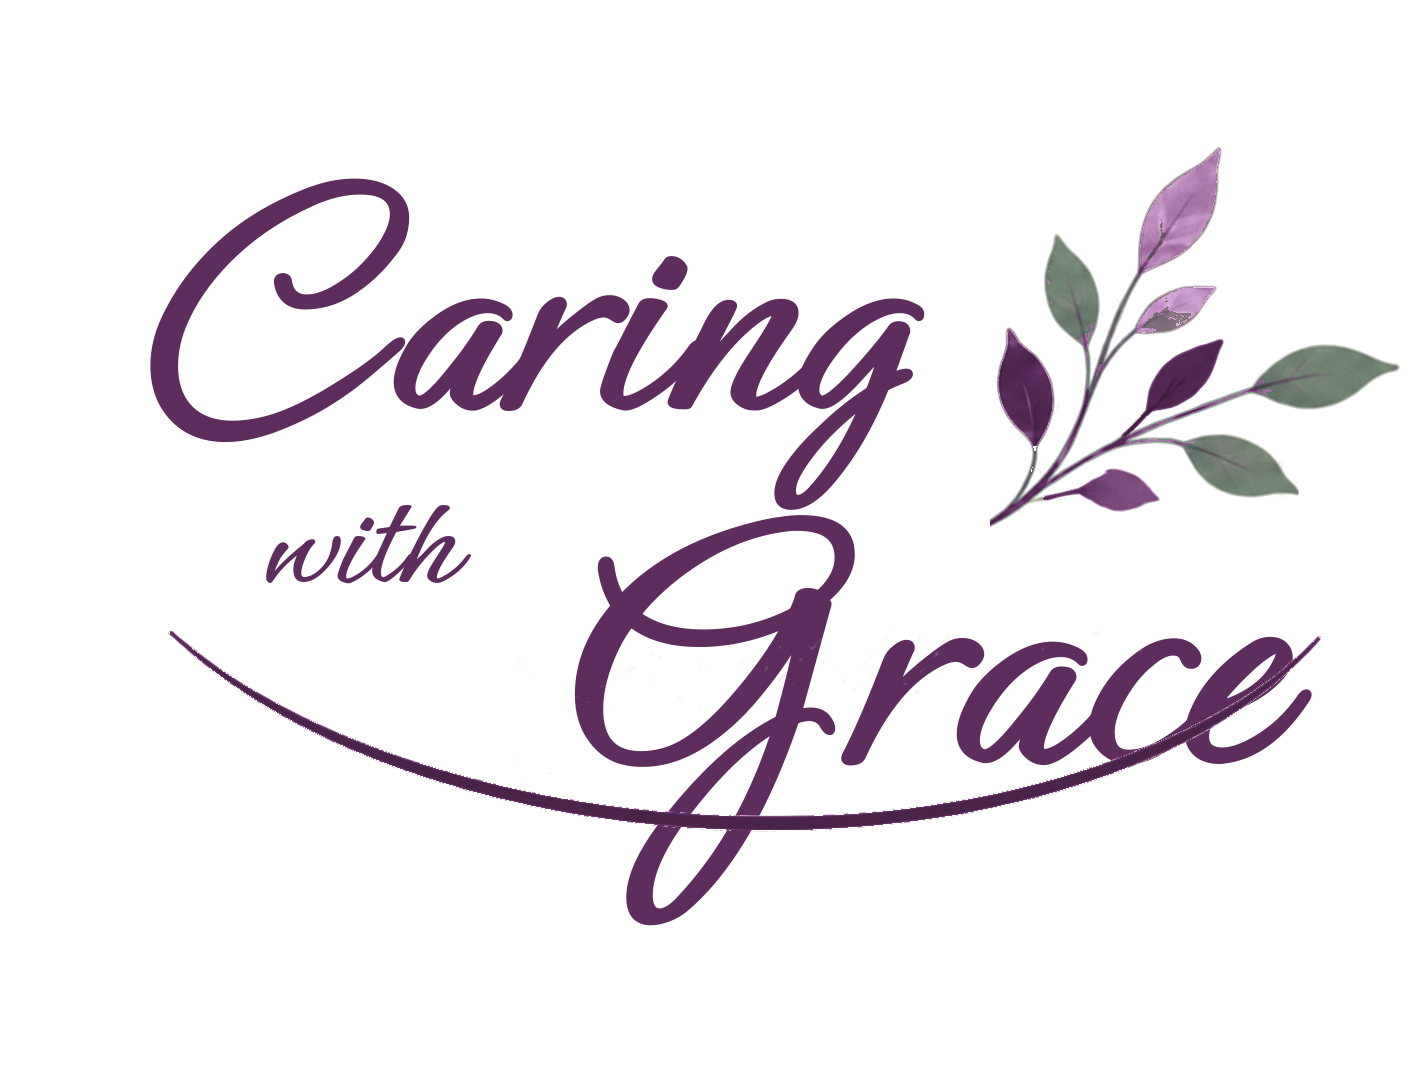
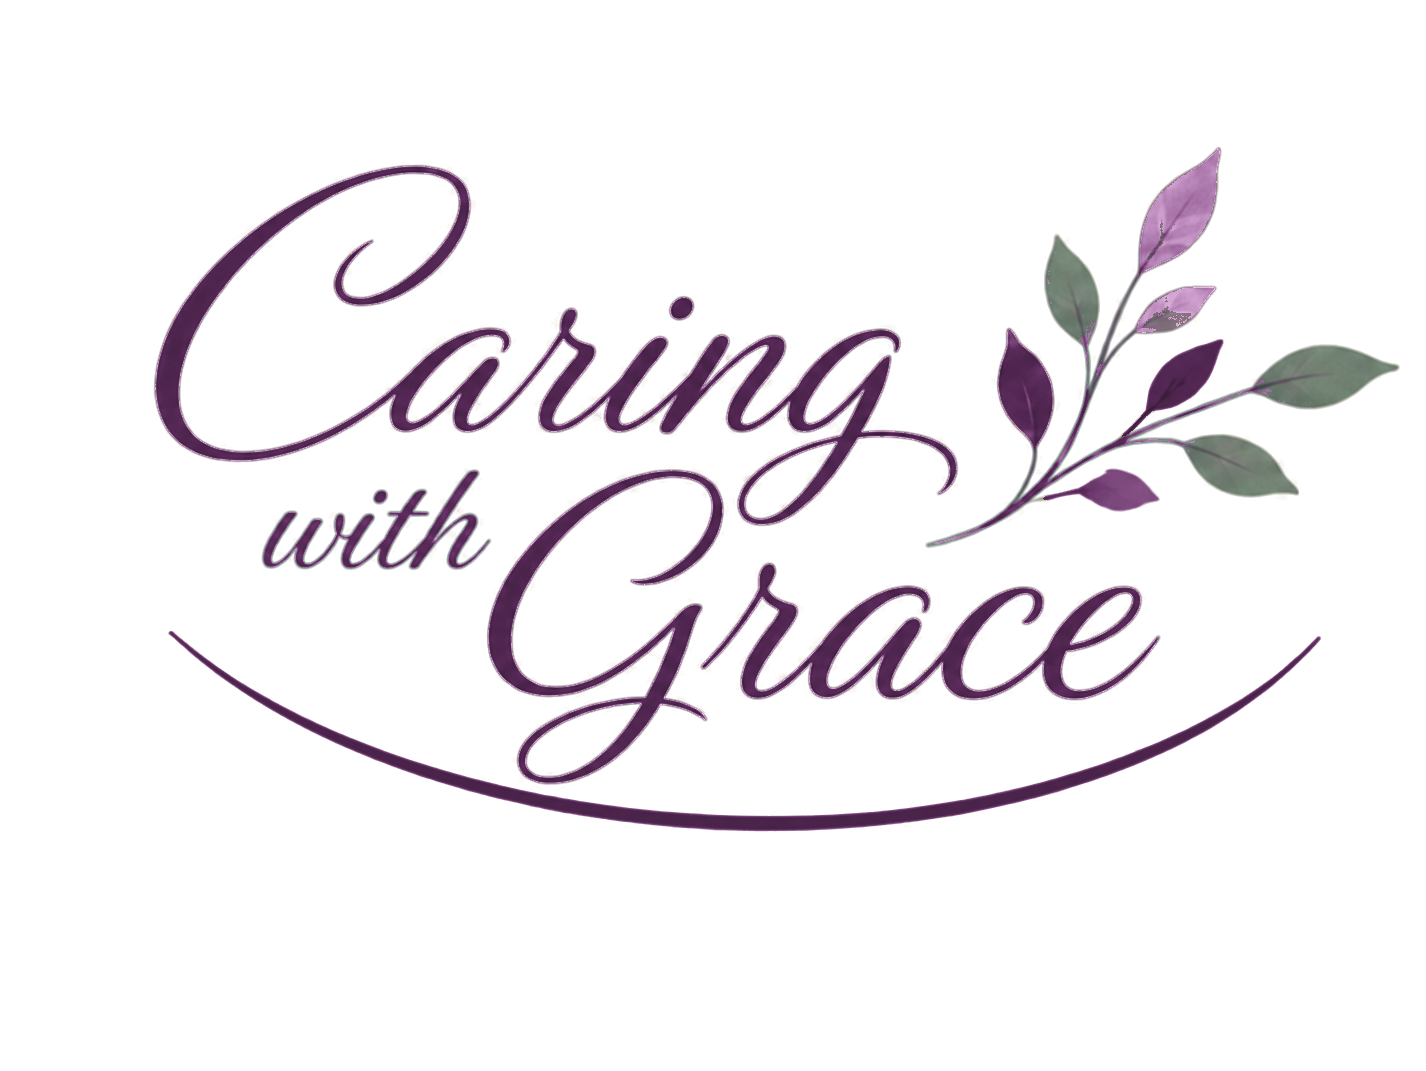
Revert the font unification: original lockup art and Great Vibes header restored (badge font to be confirmed by the team); keeps the A-F palettes, round-mark badges, and the home page try-on
Claude-Session: https://claude.ai/code/session_016j5r3FfxgFNpWKhT459GkM

Changed region(s): [[0.0926, 0.1541, 0.9257, 0.8627], [0.648, 0.493, 0.6788, 0.5238]]

diff --git a/brand-review.html b/brand-review.html
@@ -7,7 +7,7 @@
   <meta name="robots" content="noindex">
   <link rel="preconnect" href="https://fonts.googleapis.com">
   <link rel="preconnect" href="https://fonts.gstatic.com" crossorigin>
-  <link href="https://fonts.googleapis.com/css2?family=DM+Serif+Display:ital@0;1&family=Ephesis&family=DM+Sans:ital,wght@0,400;0,500;0,600;0,700;1,400&display=swap" rel="stylesheet">
+  <link href="https://fonts.googleapis.com/css2?family=DM+Serif+Display:ital@0;1&family=Great+Vibes&family=DM+Sans:ital,wght@0,400;0,500;0,600;0,700;1,400&display=swap" rel="stylesheet">
   <link rel="icon" type="image/png" href="assets/img/brand-v6/badge-karen-64.png">
   <style>
     *, *::before, *::after { box-sizing: border-box; margin: 0; padding: 0; }
@@ -55,7 +55,7 @@
           box-shadow:0 14px 30px rgba(30,42,68,.16), 0 2px 4px rgba(30,42,68,.10); display:flex; align-items:center; gap:14px; padding:18px 20px 22px 18px; overflow:hidden; }
     .nb-mark { width:26%; height:auto; flex-shrink:0; }
     .nb-text { display:flex; flex-direction:column; line-height:1.2; min-width:0; }
-    .nb-script { font-family:'Ephesis',cursive; -webkit-text-stroke:.5px currentColor; font-size:1.42rem; -webkit-text-stroke:.3px currentColor; margin-bottom:6px; white-space:nowrap; }
+    .nb-script { font-family:'Great Vibes',cursive; font-size:1.42rem; -webkit-text-stroke:.3px currentColor; margin-bottom:6px; white-space:nowrap; }
     .nb-script em { font-style:normal; font-size:.78em; margin:0 .2em; }
     .nb-text strong { font-size:.98rem; white-space:nowrap; color:var(--navy); font-weight:700; letter-spacing:.01em; }
     .nb-text span:last-child { font-size:.72rem; color:var(--muted); margin-top:3px; }
@@ -86,7 +86,6 @@
     <div class="kicker">For review &middot; Logo &amp; colors &middot; September 2026</div>
     <h1>The logo, its colors, and a name badge</h1>
     <p>The design is settled, so this page is about color. Section one shows the logo as it now appears on the draft site. Section two shows the same artwork in six color combinations, lettered A to F. Section three puts each one on a name badge so you can judge it at real-world size. Nothing here is final until you say so.</p>
-    <p>One change since the last round: the lettering in the full logo, the round badge, and the website header now all use the same script, the one from the round badge (the C with the small inner curl and the open G). <a href="brand-home.html">See any palette on the draft home page &rarr;</a></p>
   </div>
 </div>
 

diff --git a/for-professionals.html b/for-professionals.html
@@ -7,7 +7,7 @@
   <meta name="description" content="Caring with Grace partners with financial advisors, trust officers, attorneys, physicians, home care agencies, and senior living communities to support shared clients with professional care management.">
   <link rel="preconnect" href="https://fonts.googleapis.com">
   <link rel="preconnect" href="https://fonts.gstatic.com" crossorigin>
-  <link href="https://fonts.googleapis.com/css2?family=DM+Serif+Display:ital@0;1&family=Alex+Brush&family=Ephesis&family=DM+Sans:ital,wght@0,400;0,500;0,600;0,700;1,400&display=swap" rel="stylesheet">
+  <link href="https://fonts.googleapis.com/css2?family=DM+Serif+Display:ital@0;1&family=Alex+Brush&family=Great+Vibes&family=DM+Sans:ital,wght@0,400;0,500;0,600;0,700;1,400&display=swap" rel="stylesheet">
   <link rel="canonical" href="https://clayborneo.github.io/cwg-site-draft-v2/for-professionals.html">
   <meta name="robots" content="noindex">  <!-- draft only: remove at launch -->
   <meta property="og:type" content="website">
@@ -18,7 +18,7 @@
   <meta property="og:image" content="https://clayborneo.github.io/cwg-site-draft-v2/assets/img/hero/slide4c.jpg">
   <meta name="twitter:card" content="summary_large_image">
   <link rel="icon" type="image/png" href="assets/img/brand-v6/badge-karen-64.png">
-  <link rel="stylesheet" href="assets/css/style.css?v=10">
+  <link rel="stylesheet" href="assets/css/style.css?v=11">
 </head>
 <body>
 

diff --git a/caring-on-call.html b/caring-on-call.html
@@ -7,7 +7,7 @@
   <meta name="description" content="Caring on Call from Caring with Grace: plan for your own aging proactively, not in crisis. Your own care manager, one planned visit a year, and a direct line whenever you need it.">
   <link rel="preconnect" href="https://fonts.googleapis.com">
   <link rel="preconnect" href="https://fonts.gstatic.com" crossorigin>
-  <link href="https://fonts.googleapis.com/css2?family=DM+Serif+Display:ital@0;1&family=Alex+Brush&family=Ephesis&family=DM+Sans:ital,wght@0,400;0,500;0,600;0,700;1,400&display=swap" rel="stylesheet">
+  <link href="https://fonts.googleapis.com/css2?family=DM+Serif+Display:ital@0;1&family=Alex+Brush&family=Great+Vibes&family=DM+Sans:ital,wght@0,400;0,500;0,600;0,700;1,400&display=swap" rel="stylesheet">
   <link rel="canonical" href="https://clayborneo.github.io/cwg-site-draft-v2/caring-on-call.html">
   <meta name="robots" content="noindex">  <!-- draft only: remove at launch -->
   <meta property="og:type" content="website">
@@ -18,7 +18,7 @@
   <meta property="og:image" content="https://clayborneo.github.io/cwg-site-draft-v2/assets/img/hero/slide4c.jpg">
   <meta name="twitter:card" content="summary_large_image">
   <link rel="icon" type="image/png" href="assets/img/brand-v6/badge-karen-64.png">
-  <link rel="stylesheet" href="assets/css/style.css?v=10">
+  <link rel="stylesheet" href="assets/css/style.css?v=11">
 </head>
 <body>
 

diff --git a/aging-life-care.html b/aging-life-care.html
@@ -7,7 +7,7 @@
   <meta name="description" content="Aging Life Care™, also known as geriatric care management, is a holistic, client-centered approach to caring for older adults or others facing ongoing health challenges.">
   <link rel="preconnect" href="https://fonts.googleapis.com">
   <link rel="preconnect" href="https://fonts.gstatic.com" crossorigin>
-  <link href="https://fonts.googleapis.com/css2?family=DM+Serif+Display:ital@0;1&family=Alex+Brush&family=Ephesis&family=DM+Sans:ital,wght@0,400;0,500;0,600;0,700;1,400&display=swap" rel="stylesheet">
+  <link href="https://fonts.googleapis.com/css2?family=DM+Serif+Display:ital@0;1&family=Alex+Brush&family=Great+Vibes&family=DM+Sans:ital,wght@0,400;0,500;0,600;0,700;1,400&display=swap" rel="stylesheet">
   <link rel="canonical" href="https://clayborneo.github.io/cwg-site-draft-v2/aging-life-care.html">
   <meta name="robots" content="noindex">  <!-- draft only: remove at launch -->
   <meta property="og:type" content="website">
@@ -18,7 +18,7 @@
   <meta property="og:image" content="https://clayborneo.github.io/cwg-site-draft-v2/assets/img/hero/slide3d.jpg">
   <meta name="twitter:card" content="summary_large_image">
   <link rel="icon" type="image/png" href="assets/img/brand-v6/badge-karen-64.png">
-  <link rel="stylesheet" href="assets/css/style.css?v=10">
+  <link rel="stylesheet" href="assets/css/style.css?v=11">
 </head>
 <body>
 

diff --git a/thoughtful-engagement.html b/thoughtful-engagement.html
@@ -7,7 +7,7 @@
   <meta name="description" content="Thoughtful Engagement® from Caring with Grace: a personalized, one-on-one program that reconnects participants with the activities and people that bring them joy.">
   <link rel="preconnect" href="https://fonts.googleapis.com">
   <link rel="preconnect" href="https://fonts.gstatic.com" crossorigin>
-  <link href="https://fonts.googleapis.com/css2?family=DM+Serif+Display:ital@0;1&family=Alex+Brush&family=Ephesis&family=DM+Sans:ital,wght@0,400;0,500;0,600;0,700;1,400&display=swap" rel="stylesheet">
+  <link href="https://fonts.googleapis.com/css2?family=DM+Serif+Display:ital@0;1&family=Alex+Brush&family=Great+Vibes&family=DM+Sans:ital,wght@0,400;0,500;0,600;0,700;1,400&display=swap" rel="stylesheet">
   <link rel="canonical" href="https://clayborneo.github.io/cwg-site-draft-v2/thoughtful-engagement.html">
   <meta name="robots" content="noindex">  <!-- draft only: remove at launch -->
   <meta property="og:type" content="website">
@@ -18,7 +18,7 @@
   <meta property="og:image" content="https://clayborneo.github.io/cwg-site-draft-v2/assets/img/hero/slide4d.jpg">
   <meta name="twitter:card" content="summary_large_image">
   <link rel="icon" type="image/png" href="assets/img/brand-v6/badge-karen-64.png">
-  <link rel="stylesheet" href="assets/css/style.css?v=10">
+  <link rel="stylesheet" href="assets/css/style.css?v=11">
 </head>
 <body>
 

diff --git a/care-management-families.html b/care-management-families.html
@@ -7,7 +7,7 @@
   <meta name="description" content="Experienced, professional guidance for older adults and families facing changing health, complex care decisions, dementia, or the challenges of aging at home.">
   <link rel="preconnect" href="https://fonts.googleapis.com">
   <link rel="preconnect" href="https://fonts.gstatic.com" crossorigin>
-  <link href="https://fonts.googleapis.com/css2?family=DM+Serif+Display:ital@0;1&family=Alex+Brush&family=Ephesis&family=DM+Sans:ital,wght@0,400;0,500;0,600;0,700;1,400&display=swap" rel="stylesheet">
+  <link href="https://fonts.googleapis.com/css2?family=DM+Serif+Display:ital@0;1&family=Alex+Brush&family=Great+Vibes&family=DM+Sans:ital,wght@0,400;0,500;0,600;0,700;1,400&display=swap" rel="stylesheet">
   <link rel="canonical" href="https://clayborneo.github.io/cwg-site-draft-v2/care-management-families.html">
   <meta name="robots" content="noindex">  <!-- draft only: remove at launch -->
   <meta property="og:type" content="website">
@@ -18,7 +18,7 @@
   <meta property="og:image" content="https://clayborneo.github.io/cwg-site-draft-v2/assets/img/hero/slide3d.jpg">
   <meta name="twitter:card" content="summary_large_image">
   <link rel="icon" type="image/png" href="assets/img/brand-v6/badge-karen-64.png">
-  <link rel="stylesheet" href="assets/css/style.css?v=10">
+  <link rel="stylesheet" href="assets/css/style.css?v=11">
 </head>
 <body>
 

diff --git a/team.html b/team.html
@@ -7,7 +7,7 @@
   <meta name="description" content="Meet the certified Aging Life Care Professionals at Caring with Grace: nurses, social workers, and dementia practitioners serving Dallas-Fort Worth families.">
   <link rel="preconnect" href="https://fonts.googleapis.com">
   <link rel="preconnect" href="https://fonts.gstatic.com" crossorigin>
-  <link href="https://fonts.googleapis.com/css2?family=DM+Serif+Display:ital@0;1&family=Alex+Brush&family=Ephesis&family=DM+Sans:ital,wght@0,400;0,500;0,600;0,700;1,400&display=swap" rel="stylesheet">
+  <link href="https://fonts.googleapis.com/css2?family=DM+Serif+Display:ital@0;1&family=Alex+Brush&family=Great+Vibes&family=DM+Sans:ital,wght@0,400;0,500;0,600;0,700;1,400&display=swap" rel="stylesheet">
   <link rel="canonical" href="https://clayborneo.github.io/cwg-site-draft-v2/team.html">
   <meta name="robots" content="noindex">  <!-- draft only: remove at launch -->
   <meta property="og:type" content="website">
@@ -18,7 +18,7 @@
   <meta property="og:image" content="https://clayborneo.github.io/cwg-site-draft-v2/assets/img/hero/slide3d.jpg">
   <meta name="twitter:card" content="summary_large_image">
   <link rel="icon" type="image/png" href="assets/img/brand-v6/badge-karen-64.png">
-  <link rel="stylesheet" href="assets/css/style.css?v=10">
+  <link rel="stylesheet" href="assets/css/style.css?v=11">
 </head>
 <body>
 

diff --git a/newsletter.html b/newsletter.html
@@ -7,7 +7,7 @@
   <meta name="description" content="Caring Connection News is the Caring with Grace newsletter: practical guidance on aging, caregiving, and living well, delivered to families across North Texas.">
   <link rel="preconnect" href="https://fonts.googleapis.com">
   <link rel="preconnect" href="https://fonts.gstatic.com" crossorigin>
-  <link href="https://fonts.googleapis.com/css2?family=DM+Serif+Display:ital@0;1&family=Alex+Brush&family=Ephesis&family=DM+Sans:ital,wght@0,400;0,500;0,600;0,700;1,400&display=swap" rel="stylesheet">
+  <link href="https://fonts.googleapis.com/css2?family=DM+Serif+Display:ital@0;1&family=Alex+Brush&family=Great+Vibes&family=DM+Sans:ital,wght@0,400;0,500;0,600;0,700;1,400&display=swap" rel="stylesheet">
   <link rel="canonical" href="https://clayborneo.github.io/cwg-site-draft-v2/newsletter.html">
   <meta name="robots" content="noindex">  <!-- draft only: remove at launch -->
   <meta property="og:type" content="website">
@@ -17,7 +17,7 @@
   <meta property="og:url" content="https://clayborneo.github.io/cwg-site-draft-v2/newsletter.html">
   <meta name="twitter:card" content="summary">
   <link rel="icon" type="image/png" href="assets/img/brand-v6/badge-karen-64.png">
-  <link rel="stylesheet" href="assets/css/style.css?v=10">
+  <link rel="stylesheet" href="assets/css/style.css?v=11">
 </head>
 <body>
 

diff --git a/about.html b/about.html
@@ -7,7 +7,7 @@
   <meta name="description" content="The story behind Caring with Grace, founded in 2006 by Angela Thomas, MSN, RN, CMC, to help families navigate the complexities of aging.">
   <link rel="preconnect" href="https://fonts.googleapis.com">
   <link rel="preconnect" href="https://fonts.gstatic.com" crossorigin>
-  <link href="https://fonts.googleapis.com/css2?family=DM+Serif+Display:ital@0;1&family=Alex+Brush&family=Ephesis&family=DM+Sans:ital,wght@0,400;0,500;0,600;0,700;1,400&display=swap" rel="stylesheet">
+  <link href="https://fonts.googleapis.com/css2?family=DM+Serif+Display:ital@0;1&family=Alex+Brush&family=Great+Vibes&family=DM+Sans:ital,wght@0,400;0,500;0,600;0,700;1,400&display=swap" rel="stylesheet">
   <link rel="canonical" href="https://clayborneo.github.io/cwg-site-draft-v2/about.html">
   <meta name="robots" content="noindex">  <!-- draft only: remove at launch -->
   <meta property="og:type" content="website">
@@ -18,7 +18,7 @@
   <meta property="og:image" content="https://clayborneo.github.io/cwg-site-draft-v2/assets/img/hero/slide3d.jpg">
   <meta name="twitter:card" content="summary_large_image">
   <link rel="icon" type="image/png" href="assets/img/brand-v6/badge-karen-64.png">
-  <link rel="stylesheet" href="assets/css/style.css?v=10">
+  <link rel="stylesheet" href="assets/css/style.css?v=11">
 </head>
 <body>
 

diff --git a/index.html b/index.html
@@ -7,7 +7,7 @@
   <meta name="description" content="Caring with Grace provides expert Aging Life Care management for families in the Dallas-Fort Worth area. Helping those you love live with dignity.">
   <link rel="preconnect" href="https://fonts.googleapis.com">
   <link rel="preconnect" href="https://fonts.gstatic.com" crossorigin>
-  <link href="https://fonts.googleapis.com/css2?family=DM+Serif+Display:ital@0;1&family=Alex+Brush&family=Ephesis&family=DM+Sans:ital,wght@0,400;0,500;0,600;0,700;1,400&display=swap" rel="stylesheet">
+  <link href="https://fonts.googleapis.com/css2?family=DM+Serif+Display:ital@0;1&family=Alex+Brush&family=Great+Vibes&family=DM+Sans:ital,wght@0,400;0,500;0,600;0,700;1,400&display=swap" rel="stylesheet">
   <link rel="canonical" href="https://clayborneo.github.io/cwg-site-draft-v2/">
   <meta name="robots" content="noindex">  <!-- draft only: remove at launch -->
   <meta property="og:type" content="website">
@@ -18,7 +18,7 @@
   <meta property="og:image" content="https://clayborneo.github.io/cwg-site-draft-v2/assets/img/hero/slide4c.jpg">
   <meta name="twitter:card" content="summary_large_image">
   <link rel="icon" type="image/png" href="assets/img/brand-v6/badge-karen-64.png">
-  <link rel="stylesheet" href="assets/css/style.css?v=10">
+  <link rel="stylesheet" href="assets/css/style.css?v=11">
 </head>
 <body>
 

diff --git a/resources.html b/resources.html
@@ -7,7 +7,7 @@
   <meta name="description" content="Curated reading on aging, dementia, caregiving, mental health, end-of-life planning, and more, from the team at Caring with Grace.">
   <link rel="preconnect" href="https://fonts.googleapis.com">
   <link rel="preconnect" href="https://fonts.gstatic.com" crossorigin>
-  <link href="https://fonts.googleapis.com/css2?family=DM+Serif+Display:ital@0;1&family=Alex+Brush&family=Ephesis&family=DM+Sans:ital,wght@0,400;0,500;0,600;0,700;1,400&display=swap" rel="stylesheet">
+  <link href="https://fonts.googleapis.com/css2?family=DM+Serif+Display:ital@0;1&family=Alex+Brush&family=Great+Vibes&family=DM+Sans:ital,wght@0,400;0,500;0,600;0,700;1,400&display=swap" rel="stylesheet">
   <link rel="canonical" href="https://clayborneo.github.io/cwg-site-draft-v2/resources.html">
   <meta name="robots" content="noindex">  <!-- draft only: remove at launch -->
   <meta property="og:type" content="website">
@@ -18,7 +18,7 @@
   <meta property="og:image" content="https://clayborneo.github.io/cwg-site-draft-v2/assets/img/hero/slide3d.jpg">
   <meta name="twitter:card" content="summary_large_image">
   <link rel="icon" type="image/png" href="assets/img/brand-v6/badge-karen-64.png">
-  <link rel="stylesheet" href="assets/css/style.css?v=10">
+  <link rel="stylesheet" href="assets/css/style.css?v=11">
 </head>
 <body>
 

diff --git a/contact.html b/contact.html
@@ -7,7 +7,7 @@
   <meta name="description" content="Reach out to Caring with Grace. Our care managers will respond within one business day to talk through your family's situation.">
   <link rel="preconnect" href="https://fonts.googleapis.com">
   <link rel="preconnect" href="https://fonts.gstatic.com" crossorigin>
-  <link href="https://fonts.googleapis.com/css2?family=DM+Serif+Display:ital@0;1&family=Alex+Brush&family=Ephesis&family=DM+Sans:ital,wght@0,400;0,500;0,600;0,700;1,400&display=swap" rel="stylesheet">
+  <link href="https://fonts.googleapis.com/css2?family=DM+Serif+Display:ital@0;1&family=Alex+Brush&family=Great+Vibes&family=DM+Sans:ital,wght@0,400;0,500;0,600;0,700;1,400&display=swap" rel="stylesheet">
   <link rel="canonical" href="https://clayborneo.github.io/cwg-site-draft-v2/contact.html">
   <meta name="robots" content="noindex">  <!-- draft only: remove at launch -->
   <meta property="og:type" content="website">
@@ -18,7 +18,7 @@
   <meta property="og:image" content="https://clayborneo.github.io/cwg-site-draft-v2/assets/img/hero/slide3d.jpg">
   <meta name="twitter:card" content="summary_large_image">
   <link rel="icon" type="image/png" href="assets/img/brand-v6/badge-karen-64.png">
-  <link rel="stylesheet" href="assets/css/style.css?v=10">
+  <link rel="stylesheet" href="assets/css/style.css?v=11">
 </head>
 <body>
 
